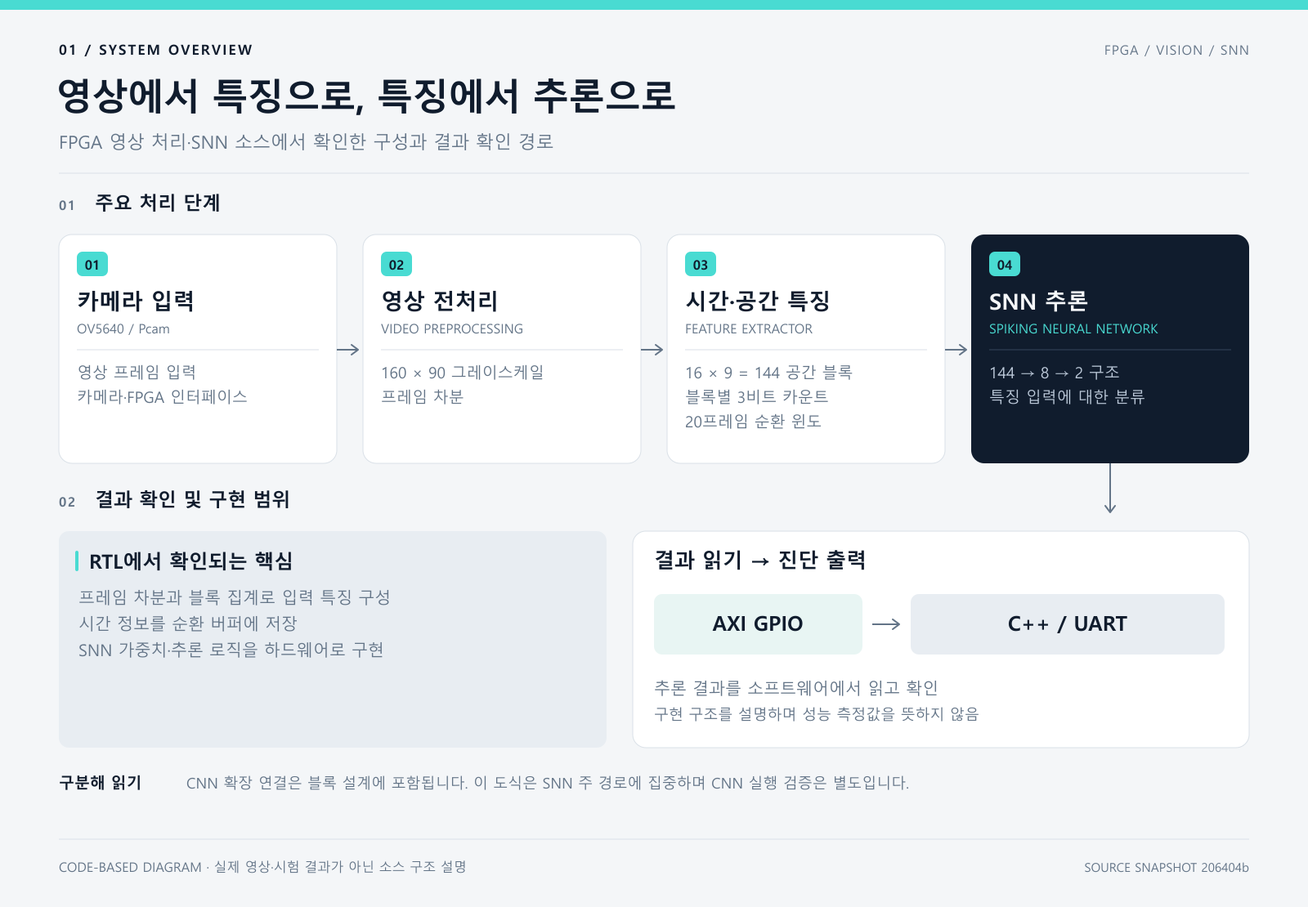
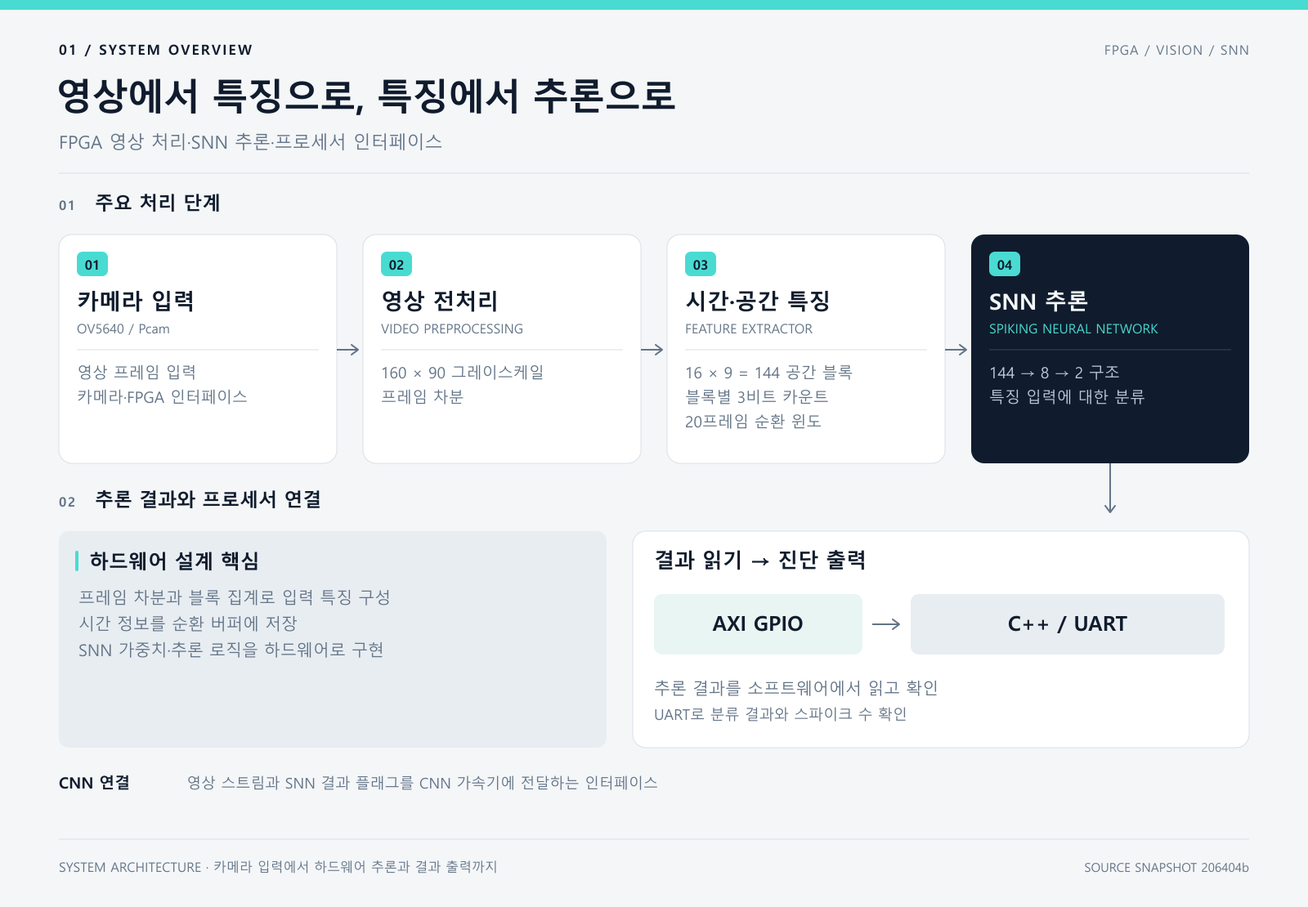
docs: focus portfolio copy and visuals on implementation and achievements

diff --git a/docs/results.md b/docs/results.md
@@ -1,75 +1,63 @@
 # 결과와 측정 조건
 
-[프로젝트 소개로 돌아가기](../README.md) · [실행 환경과 검증 범위](reproduction.md)
+[프로젝트 소개로 돌아가기](../README.md) · [개발 환경과 실행 안내](reproduction.md)
 
-프로젝트 수행 기록은 최종보고서·포스터의 결과와 개발 중 시험을 구분해 정리합니다. 아래 수치는 해당 기록에 보고된 결과이며, 이번 문서 제작에서 새로 측정한 값은 아닙니다. 공개 코드의 설정값, 상태별 실측 기록, 운용 가정에 따른 계산을 나누어 제시합니다.
+최종보고서·포스터에 정리한 모델 성능, FPGA 자원 사용률과 상태별 전류 비교 결과입니다.
 
-## 모델·자원 결과
+## 모델 성능과 FPGA 자원
 
-| 지표 | 수행 기록의 결과 | 확인 범위 |
-|---|---|---|
-| SNN 분류 정확도 | 98% | 데이터 분할 목록·클래스 구성·혼동행렬 원본은 추가 확인 필요 |
-| SNN 연산 지연 | 약 23,560사이클 · 약 236 µs | 20프레임 수집 대기까지 포함한 지연이 아님. 적용 클럭·최종 RTL 버전 확인 필요 |
-| CNN 검출 성능 | AP@0.5 89% | 평가셋·PR 곡선·반복 조건 원본은 추가 확인 필요 |
-| CNN 처리율 | 약 37 FPS | 카메라부터 서보까지 전체 경로를 포함했는지는 기록에 명확하지 않음 |
-| CNN 연산량 | 약 42M MAC/frame | 모델 연산량이며 전력 측정치가 아님 |
-| LUT | 27,802 / 52.26% | 최종 통합 설계로 보고된 수치 |
-| FF | 22,986 / 21.6% | 최종 통합 설계로 보고된 수치 |
-| BRAM | 90.5 / 64.64% | 최종 통합 설계로 보고된 수치 |
-| DSP48E1 | 7 / 3.18% | 최종 통합 설계로 보고된 수치 |
+| 지표 | 결과 |
+|---|---|
+| SNN 분류 정확도 | 98% |
+| SNN 연산 지연 | 약 23,560사이클 · 약 236 µs(100 MHz 환산) |
+| CNN 검출 성능 | AP@0.5 89% |
+| CNN 처리율 | 약 37 FPS |
+| CNN 연산량 | 약 42M MAC/frame |
+| LUT | 27,802개 / 52.26% |
+| FF | 22,986개 / 21.6% |
+| BRAM | 90.5개 / 64.64% |
+| DSP48E1 | 7개 / 3.18% |
 
-개발 요약에는 약 1,600개 데이터와 미탐 0건도 적혀 있습니다. 다만 1,600개가 전체 데이터인지 평가 데이터인지, 어떤 장면과 임계값에서 미탐을 집계했는지 확인되지 않아 대표 성과 수치로 사용하지 않았습니다. 이를 일반 환경에서 드론을 놓치지 않는다는 의미로 해석하지 않습니다.
-
-약 236 µs는 23,560사이클을 100 MHz로 환산한 값과 맞습니다. 공개 코드 주석의 영상·추론 클럭 설명과 측정 빌드가 같은지 확인되지 않으므로, 현재 스냅샷의 실측 지연으로 환산해 쓰지 않습니다. 또한 20프레임 입력을 모으는 시간과 SNN 연산 시간은 서로 다른 지연입니다.
+SNN은 20프레임의 특징을 모아 시간 패턴을 분류합니다. 위 연산 지연은 특징 수집 이후 SNN 추론 구간의 값입니다.
 
 ## 검출 화면과 시제품
 
 <p align="center"><img src="../assets/detection-comparison.jpg" alt="같은 영상 프레임에 겹쳐 표시한 소프트웨어와 INT8 하드웨어 검출 박스" width="420"></p>
 
-*출처: 프로젝트 수행 기록에 수록한 화면. 기록은 녹색을 소프트웨어, 빨간색을 INT8 하드웨어 검출로 설명합니다. 한 프레임의 비교 화면이며, AP 89%나 전체 데이터셋의 등가성을 단독으로 증명하지는 않습니다.*
+*동일 프레임의 검출 박스 비교: 소프트웨어는 녹색, INT8 하드웨어는 빨간색.*
 
-수행 기록에는 단일 보드 통합, 팬틸트 시제품과 약 55초의 시연 영상 제작이 남아 있습니다. 사진은 [프로젝트 소개](../README.md)에서 볼 수 있습니다. 추적 중심 오차, 정착 시간, 최대 추적 각속도의 정량 결과는 확인되지 않았습니다.
+단일 보드에 카메라·추론·팬틸트를 통합하고 약 55초의 시연 영상을 제작했습니다. 완성한 시제품은 [프로젝트 소개](../README.md)에서 볼 수 있습니다.
 
-## 상태별 전류 실측 기록
+## 상태별 입력 전류
 
-5 V 전원 경로에서 멀티미터로 전류를 비교했습니다. 카메라 입력과 HDMI 출력만 포함하는 설계를 기준으로 삼아, 공통 영상 경로의 소비와 추론을 추가했을 때의 증가분을 나눴습니다.
+5 V 전원 경로에서 멀티미터로 전류를 비교했습니다. 카메라 입력과 HDMI 출력을 기준 설계로 두고, 추론 기능을 추가했을 때의 전류 증가분을 측정했습니다.
 
-| 상태 | 기록된 입력 전류 | 기준 595 mA 대비 |
+| 상태 | 입력 전류 | 기준 595 mA 대비 |
 |---|---|---|
 | 카메라 → HDMI 기준 설계 | 595 mA | 0 mA |
 | CNN 상시 실행 | 616 mA | +21 mA |
-| SNN 감시 | 포스터 그래프 608 mA / 재측정 기록 607 mA | 각각 +13 mA / +12 mA |
+| SNN 감시 | 607 mA(후속 측정) | +12 mA |
 | CNN 추적 활성 | 625 mA | +30 mA |
 
-<p><img src="../assets/current-measurement.png" alt="프로젝트 수행 기록의 구성별 입력 전류 그래프: 기준 595, CNN 단독 616, SNN 감시 608, CNN 추적 625 mA" width="100%"></p>
+<p><img src="../assets/current-measurement.png" alt="상태별 입력 전류 그래프: 기준 595, CNN 단독 616, SNN 감시 608, CNN 추적 625 mA" width="100%"></p>
 
-*출처: 프로젝트 수행 기록에 수록한 전류 비교 그래프. 원본 그래프는 세로축을 생략해 차이를 확대하므로 수치와 함께 읽어야 합니다. 이 그림은 상태별 실측 표기이며 출현율별 장시간 실측 그래프가 아닙니다.*
+*상태별 입력 전류 비교. 포스터의 SNN 감시 측정값은 608 mA이며, 후속 측정값은 607 mA입니다. 측정 중 변동은 약 ±2 mA였습니다.*
 
-감시 상태의 **608 mA와 공식 증가분 +12 mA는 그대로 빼면 일치하지 않습니다.** 수행 기록에는 후속 측정 607 mA와 약 ±2 mA의 변동이 함께 남아 있습니다. 아래 42% 계산은 공식 설명에서 사용한 +12 mA를 따르며, 그래프의 608 mA를 임의로 바꾸지 않았습니다.
+## 조건부 추론의 평균 전류
 
-## 출현율을 가정한 평균 추론 전류 계산
-
-표적 출현율을 `d`라고 두고, 감시·추적 상태에 머무는 비율로 해석한 단순 모델입니다. 감시 시 +12 mA, 추적 시 +30 mA를 사용하면 기준 부하를 제외한 평균 증가분은 다음과 같습니다.
+상태별 측정값을 바탕으로 표적 출현율에 따른 평균 추론 전류를 계산했습니다. 출현율 `d`를 CNN 추적 활성 비율로 두고, 감시 상태 +12 mA와 추적 상태 +30 mA를 가중 평균합니다.
 
 ```text
 평균 추론 추가 전류 = (1 − d) × 12 + d × 30 = 12 + 18d [mA]
 CNN 상시 실행 대비 절감률 = (21 − 평균 추론 추가 전류) / 21
 ```
 
-| 가정한 출현율 | 평균 추론 추가 전류 | 추가 전류 절감률 | 기준 부하를 포함한 평균 전류 |
+| 출현율 시나리오 | 평균 추론 추가 전류 | 추론 추가 전류 절감률 | 기준 부하를 포함한 평균 전류 |
 |---|---|---|---|
 | 50% | 21.0 mA | 0% | 616.0 mA |
 | 10% | 13.8 mA | 약 34% | 608.8 mA |
 | 1% | 12.18 mA | 약 42% | 607.18 mA |
 
-**출현율 1%에서 42%는 추론 증가분의 절감률입니다.** 전체 입력 전류로 비교하면 `(616 − 607.18) / 616`, 약 **1.4%** 감소입니다. 전압이 같다는 전제에서 전력 비율도 같지만, 이 결과를 누적 에너지 실측이나 모든 운용 조건의 절감률로 확대하지 않습니다.
+**출현율 1% 시나리오에서 추론 추가 전류를 약 42% 줄이는 구조입니다.** 비교 기준은 카메라·HDMI의 공통 부하 595 mA를 제외한 추론 증가분입니다. 같은 시나리오의 보드 전체 평균 전류는 616 mA에서 607.18 mA로 약 1.4% 감소합니다.
 
-실제 추적 타임아웃과 오탐으로 CNN이 켜진 시간은 표적 출현 시간과 다를 수 있습니다. 따라서 위 표는 상태별 전류를 이용한 시나리오 계산이며, 실제 CNN 활성 비율을 기록한 장시간 반복 실험과 구분합니다. 더 큰 모델의 85% 절감 추정도 실측 성과에 포함하지 않았습니다.
-
-## 다시 측정할 때 남길 자료
-
-- 데이터셋 버전·동영상 단위 분할·클래스별 평가 개수와 원시 예측
-- 가중치, 임계값, RTL, bitstream, XSA와 소프트웨어의 일치 목록
-- 카메라 입력→검출→서보 명령까지의 지연과 프레임 누락
-- 실제 CNN 활성 비율, 전원 조건, 반복 시간과 전류 시계열
-- 추적 오차, 정착 시간과 여러 배경·거리 조건의 실패 사례
+표적이 드물수록 SNN 감시 상태에 머무는 시간이 길어지고, CNN 상시 실행 방식과의 평균 추론 비용 차이가 커집니다.

diff --git a/docs/development.md b/docs/development.md
@@ -2,7 +2,7 @@
 
 [프로젝트 소개로 돌아가기](../README.md) · [결과와 측정 조건](results.md)
 
-프로젝트 수행 기록과 개발 요약에 남은 사례를 정리했습니다. 공개 소스에서 확인한 현재 구조, 당시 수정·시험 기록, 최종 코드가 더 필요한 항목을 구분합니다. 제안만 남은 다중 분기 SNN, 실제 DVS 센서와 다중 표적 추적은 구현 성과에 포함하지 않았습니다.
+카메라 입력부터 모델 평가, RTL 수치 표현과 FPGA 메모리 배치까지, 통합 과정에서 발생한 문제를 계층별로 나누어 해결했습니다.
 
 ## 1. 검은 화면을 세 계층으로 분리
 
@@ -26,9 +26,7 @@
 
 **원인.** 20프레임 윈도우를 한 프레임씩 이동해 만든 샘플은 이웃끼리 19프레임을 공유합니다. 이 샘플을 무작위로 나누면 같은 영상의 거의 같은 장면이 학습과 평가에 동시에 들어갑니다. 카메라 흔들림이나 물체의 상하 위치에 의존하는 현상도 관찰했습니다.
 
-**대응.** 동영상 파일 단위로 학습·평가를 나누고 별도 영상의 결과를 확인했습니다. 사람과 드론이 붙어 있는 장면, 낮게 나는 드론, 배경·위치가 다른 장면을 점검하고 데이터를 보강했습니다. 중간 실험의 100%에 가까운 수치를 최종 성과로 사용하지 않았습니다.
-
-현재 공개 소스의 144차원·20프레임 입력 구조는 이 문제를 이해할 근거가 됩니다. 당시 학습 데이터 분할 목록과 평가 실행 결과는 공개 스냅샷과 별도로 보존·연결할 자료입니다.
+**대응.** 동영상 파일 단위로 학습·평가를 나누고 독립 영상으로 평가했습니다. 사람과 드론이 붙어 있는 장면, 낮게 나는 드론, 배경·위치가 다른 장면을 점검하고 데이터를 보강했습니다. 샘플 수뿐 아니라 영상 간 독립성과 실패 장면을 기준으로 평가 체계를 개선했습니다.
 
 ## 3. 정지 입력의 Fly 오판을 비트폭까지 추적
 
@@ -36,33 +34,29 @@
 
 **원인 분리.** 카메라를 분리하고 RTL에 all-zero 입력을 직접 넣어 같은 현상을 재현했습니다. 영상 노이즈에 앞서 신경망 내부의 수치 표현과 비교 조건을 살펴볼 수 있었습니다.
 
-**대응.** 수행 기록에는 임계값 171·146이 signed 8비트의 양수 범위를 넘어 음수로 해석된 문제가 남아 있습니다. 임계값 폭을 16비트로 넓히고, 두 임계값의 GPIO 전달 형식과 동률 판정을 명시했습니다. RTL 단독 입력, 실제 카메라 정지, 손 움직임을 순서대로 넣어 결과를 비교했습니다.
+**대응.** 임계값 171·146이 signed 8비트의 양수 범위를 넘어 음수로 해석되는 것을 확인했습니다. 임계값 폭을 16비트로 넓히고, 두 임계값의 GPIO 전달 형식과 동률 판정을 명시했습니다. RTL 단독 입력, 실제 카메라 정지, 손 움직임을 순서대로 넣어 결과를 비교했습니다.
 
 값의 범위, 부호, 전달 비트 배치는 모델과 하드웨어 사이의 인터페이스 사양으로 관리했습니다. 모델 값이 맞더라도 전달 형식이 다르면 결과가 달라질 수 있기 때문입니다.
 
 ## 4. CNN 자원 초과에서 메모리 배치를 확인
 
-**문제.** CNN 통합 중 activation 메모리가 BRAM이 아닌 LUTRAM으로 합성되면서 자원 요구량이 급증하고 배치에 실패했습니다. 수행 기록의 대상 메모리는 115,200 × 8비트입니다.
+**문제.** CNN 통합 중 115,200 × 8비트 activation 메모리가 LUTRAM으로 합성되면서 자원 요구량이 급증하고 배치에 실패했습니다.
 
 **분석.** 모델 규모를 바로 줄이기보다 최신 자원 보고서와 계층별 메모리 배치를 확인했습니다. 디버그 레지스터 추가분과 대용량 메모리의 배치 비용을 나누고, 오래된 합성 결과를 보고 있지 않은지도 확인했습니다.
 
-**기록된 해결.** 개발 요약은 불필요한 대규모 초기화 루프를 제거한 뒤 BRAM 추론과 배치가 정상화되었다고 설명합니다. 통합 수행 기록도 메모리 추론 문제 해소와 후속 결과를 기록하지만, 최종 수정 코드의 정확한 형태는 확정하지 않습니다. 따라서 **메모리 배치 문제를 찾아 수정한 경험**으로 소개하며, 모든 합성 변동의 원인이 하나의 루프였다고 일반화하지 않습니다.
+**대응.** 대규모 초기화 루프를 정리하고 메모리의 합성 형태를 수정해 BRAM 추론과 배치를 정상화했습니다. 모델 연산량과 메모리 배치 비용을 따로 분석하면서, 같은 알고리즘도 RTL 표현에 따라 자원 사용량이 크게 달라진다는 점을 반영했습니다.
 
-현재 공개 스냅샷과 최종 수정본의 일치를 확인하려면 당시 RTL·합성 보고서·bitstream을 같은 빌드로 묶어 비교해야 합니다.
-
-## 5. 시뮬레이션 성공과 보드 실행을 분리
+## 5. RAW 출력부터 보드 통합 경로를 추적
 
 CNN의 testbench에는 출력이 있어도 실제 보드에서 RAW가 0이거나 포화값으로 나오는 경우가 있었습니다. 입력 프레임, 가중치 로드, 상태 머신, 출력 주소, 최신 합성 반영 여부를 나누어 확인했습니다.
 
-수행 기록에는 과도한 초기화 반복문, 다른 개발 환경의 가중치 파일 경로, 이전 합성 결과 재사용이 남아 있습니다. 이들은 중간 가중치 내장 방식에서 발견한 문제이며, 하나의 확정 원인으로 묶지 않았습니다. 최종 자료가 설명하는 구조는 AXI-Lite 런타임 가중치 로드입니다.
+가중치 내장 방식을 개발하는 동안 초기화 반복문, 개발 환경별 파일 경로와 합성 결과 반영 상태를 점검했습니다. 최종 통합에서는 AXI-Lite 런타임 가중치 로드 구조를 사용했습니다.
 
-UART의 RAW 덤프와 상태 레지스터로 시작·진행·완료를 확인하고, 그 다음 영상 좌표 정렬을 별도 문제로 살폈습니다. 현재·이전 프레임의 `tuser/tlast`, VDMA 읽기 시작 시점과 차분 덤프를 함께 비교했습니다. 일부 행 오프셋이 관측 방식 때문인지 잔여 영상 문제인지는 기록만으로 확정하지 않았습니다.
+UART의 RAW 덤프와 상태 레지스터로 시작·진행·완료를 확인하고, 그 다음 영상 좌표 정렬을 살폈습니다. 현재·이전 프레임의 `tuser/tlast`, VDMA 읽기 시작 시점과 차분 덤프를 함께 비교하며 영상·가중치·제어 경계별로 원인을 좁혔습니다.
 
-## 검증 과정에서 남긴 기준
+## 개발에 적용한 검증 방식
 
 - 모델 평가는 동영상 단위 독립성을 확인하고, 평균 정확도와 실패 장면을 함께 살핍니다.
 - 기능 시뮬레이션과 타이밍 검증을 구분합니다. 파이프라인을 넣을 때 데이터·상태·완료 신호의 지연을 함께 맞춥니다.
 - 수정한 RTL, 생성한 bitstream, 내보낸 XSA, Vitis 플랫폼과 실행 파일의 버전을 맞춥니다.
 - 결과가 없을 때는 UART·레지스터·프레임 덤프로 어느 경계까지 데이터가 도착했는지 확인합니다.
-
-이 사례들은 당시 수행 기록에 근거한 설명입니다. 이번 포트폴리오 정리에서 원시 실험을 다시 실행하거나 최종 보드 동작을 재검증한 것은 아닙니다.

diff --git a/docs/reproduction.md b/docs/reproduction.md
@@ -1,61 +1,44 @@
-# 실행 환경과 검증 범위
+# 개발 환경과 실행 안내
 
 [프로젝트 소개로 돌아가기](../README.md)
 
-## 환경
+## 개발 환경
 
-- 저장소의 보드 설정: Zybo Z7-20 / Zynq-7000, 장치 `xc7z020clg400-1`
-- Vivado 블록 설계 기록: 2025.1
-- 프로세서 애플리케이션: Cortex-A9 / standalone / C++
-- 영상 입력 관련 코드: OV5640 / Pcam 5C, MIPI 수신 IP
-- 포함된 하드웨어 자료: Vivado 프로젝트, 블록 설계, RTL, 여러 XSA
-- 포함된 소프트웨어 자료: Vitis 컴포넌트 설정, 카메라·VDMA 코드, SNN 가중치 헤더
+| 구분 | 구성 |
+|---|---|
+| FPGA 보드 | Zybo Z7-20 / Zynq-7000 · `xc7z020clg400-1` |
+| 설계 도구 | Vivado 2025.1 · Vitis |
+| 프로세서 애플리케이션 | Cortex-A9 / standalone / C++ |
+| 영상 입력 | OV5640 / Pcam 5C · MIPI 수신 IP |
+| 하드웨어 자료 | Vivado 프로젝트, 블록 설계, RTL, XSA |
+| 소프트웨어 자료 | Vitis 컴포넌트, 카메라·VDMA 제어, SNN 가중치 헤더 |
 
-## 복원할 때 먼저 맞출 항목
+## 프로젝트 구성 순서
 
-1. 실제 사용한 Vivado·Vitis 버전, 보드와 카메라 모델을 확인합니다.
-2. 원본 `hw.xpr`의 IP 경로와 참조 RTL을 복원합니다.
-3. 사용할 XSA와 플랫폼을 선택하고 BSP 및 `xparameters.h`를 다시 생성합니다.
-4. 애플리케이션의 플랫폼 참조, VDMA 주소·인터럽트·메모리 영역을 해당 하드웨어와 맞춥니다.
-5. 카메라 출력 → 그레이스케일 저장 → 차분 영상 → 가중치 로드 → 분류 결과 순서로 관찰합니다.
+1. 원본 `hw.xpr`을 열고 IP 경로와 참조 RTL을 설정합니다.
+2. 사용할 하드웨어의 XSA로 Vitis 플랫폼을 구성하고 BSP와 `xparameters.h`를 생성합니다.
+3. 애플리케이션의 플랫폼 참조, VDMA 주소·인터럽트·메모리 영역을 해당 하드웨어에 맞춥니다.
+4. RTL·가중치·bitstream·XSA·Vitis 실행 파일을 같은 빌드로 묶어 관리합니다.
+5. 카메라 출력 → 그레이스케일 저장 → 차분 영상 → 가중치 로드 → 분류 결과 순서로 동작을 확인합니다.
 
-현재 `app_component/vitis-comp.json`의 플랫폼 이름은 `platform_snn_real_final`입니다. 저장소에는 `platform_0515_2`와 `platform_8`이 있어, 복원 시 이름과 하드웨어 매칭을 확인해야 합니다. 플랫폼 설정에는 원래 개발 PC의 절대 경로도 포함되어 있습니다. 이 이유로 단일 명령으로 빌드된다고 안내하지 않습니다.
+새 개발 환경에서는 `app_component/vitis-comp.json`의 플랫폼 이름과 경로를 사용할 플랫폼으로 지정합니다. 원본 저장소에는 `platform_0515_2`, `platform_8` 등의 플랫폼 자료가 함께 있습니다.
 
-## 관찰 도구
+## UART 관찰 도구
 
-C++ 코드에는 UART 명령으로 160 × 90 PGM 형식의 원본 영상과 차분 영상을 출력하는 기능이 있습니다.
+C++ 애플리케이션에서 160 × 90 PGM 형식의 원본·차분 영상과 SNN 결과를 출력할 수 있습니다.
 
-| 명령 | 코드상 기능 |
+| 명령 | 기능 |
 |---|---|
 | `y` | 그레이스케일 원본 프레임 덤프 |
 | `z` | 차분 프레임 덤프 |
 | `r` | SNN 결과 한 번 읽기 |
-| `s` | SNN 결과 연속 출력; 코드상 리셋으로 종료 |
+| `s` | SNN 결과 연속 출력, 리셋으로 종료 |
 
-UART 출력에는 메뉴와 진단 문자열도 있으므로, 저장 파일에서 영상 데이터 경계를 구분해야 합니다.
+영상 덤프를 저장할 때는 UART 메뉴·진단 문자열과 PGM 영상 데이터를 구분합니다. 분류 결과와 출력 뉴런의 스파이크 수를 함께 보면 영상 입력부터 추론 결과까지 단계별로 살펴볼 수 있습니다.
 
-## 현재 문서가 보여주는 범위
+## 코드와 문서
 
-이 포트폴리오는 공개 소스와 프로젝트 수행 기록·개발 요약을 함께 정리한 문서입니다. 수행 기록에는 6월의 단일 보드 통합·시연·계측 결과가 있으며, 소스 설명에 사용한 공개 스냅샷은 그보다 앞선 구현을 담고 있습니다. 이 문서 제작 과정에서 FPGA 보드 실행, RTL 시뮬레이션, 합성·타이밍 검증 또는 모델 정확도 평가를 새로 수행하지 않았습니다.
-
-| 근거 | 이 문서에서 설명하는 내용 | 남은 연결 자료 |
-|---|---|---|
-| 공개 코드 `206404b` | 영상·VDMA·특징 추출·SNN과 CNN 블록 연결 | 공개 소스와 최종 통합 빌드의 변경 이력 |
-| 6월까지의 수행 기록·개발 요약 | 런타임 CNN 가중치 로드, PS 후처리, 팬틸트, 시연·계측 과정 | 최종 RTL·가중치·bitstream·XSA·애플리케이션 묶음 |
-| 기록에 수록한 사진·검출 화면·전류 그래프 | 시제품 형태, 단일 프레임 검출 비교, 상태별 전류 | 원시 측정·평가 결과와 반복 조건 |
-
-- 카메라 모드의 60 fps 설정은 전체 추론 파이프라인의 실측 FPS가 아닙니다.
-- 임계값·클럭·버퍼 크기는 구현 설정입니다.
-- 테스트벤치 파일의 존재는 테스트 통과를 의미하지 않습니다.
-- 팬틸트 시제품과 통합 과정은 수행 기록에 있지만, 추적 오차·정착 시간·최대 추적 속도는 정량화되어 있지 않습니다.
-- CNN 런타임 가중치 로드와 후처리는 최종 기록에 있으며, 현재 공개 C++ 스냅샷만으로 그 전체 동작을 재현할 수는 없습니다.
-- 기록의 약 236 µs는 SNN 연산 지연이며, 20프레임 수집 대기와 구동부 응답을 포함한 전체 지연이 아닙니다.
-
-실기 사진·검출 비교 화면·전류 그래프를 수행 기록에서 가져와 캡션으로 출처와 범위를 표시했습니다. 새로 제작한 도해와 실제 기록 이미지는 구분했습니다. 수치와 계산 조건은 [결과와 측정 조건](results.md), 원인 분석과 검증 과정은 [문제 해결 과정](development.md)을 참고하세요.
-
-## 기준 소스
-
-전체 팀 코드: https://github.com/jounget5411-lab/capstone_drone  
-문서 기준 커밋: `206404b4667d665620e731083eb8de6d972c248c`  
-개발 과정·결과 기준: 프로젝트 수행 기록 및 개발 요약(2026년 6월 최종 통합·계측 포함)  
-문서 작성일: 2026-09-27
+- [전체 팀 코드](https://github.com/jounget5411-lab/capstone_drone)
+- 소스 안내 기준: `206404b4667d665620e731083eb8de6d972c248c`
+- 개발 과정·결과: 2026년 3~6월 프로젝트 수행 기록과 개발 요약
+- [설계 상세](architecture.md) · [문제 해결 과정](development.md) · [결과와 측정 조건](results.md)

diff --git a/docs/code-map.md b/docs/code-map.md
@@ -2,7 +2,7 @@
 
 [프로젝트 소개로 돌아가기](../README.md)
 
-아래 링크는 공개 스냅샷 `206404b`의 구현을 안내합니다. 6월 최종 통합까지의 경험은 [문제 해결 과정](development.md), 기록된 성과는 [결과와 측정 조건](results.md)에서 읽을 수 있습니다.
+아래 링크는 공개 코드 `206404b`의 구현을 안내합니다. 6월 최종 통합까지의 경험은 [문제 해결 과정](development.md), 주요 성과는 [결과와 측정 조건](results.md)에서 읽을 수 있습니다.
 
 | 질문 | 파일 | 읽을 부분 |
 |---|---|---|
@@ -15,4 +15,4 @@
 | 시스템 전체 연결은 어디에 있나요? | [pcam_base_720p.bd](https://github.com/jounget5411-lab/capstone_drone/blob/206404b4667d665620e731083eb8de6d972c248c/hw_new_0426_cnnintegration/hw_new_backup/hw_new/hw.srcs/sources_1/bd/pcam_base_720p/pcam_base_720p.bd) | 영상 분기, VDMA, SNN, CNN, AXI 제어 |
 | 소프트웨어가 어떤 플랫폼을 참조하나요? | [vitis-comp.json](https://github.com/jounget5411-lab/capstone_drone/blob/206404b4667d665620e731083eb8de6d972c248c/new_workspace/app_component/vitis-comp.json) | 플랫폼·프로세서·OS 설정 |
 
-외부 IP와 드라이버를 포함한 전체 소스는 원본 저장소에서 확인하세요. 이 포트폴리오에는 원본 소스나 제3자 모델을 복제하지 않았으며, 원본의 권리·라이선스 조건은 해당 프로젝트 자료를 따릅니다.
+외부 IP와 드라이버를 포함한 전체 소스는 [원본 저장소](https://github.com/jounget5411-lab/capstone_drone)에서 확인할 수 있습니다.

diff --git a/assets/README.md b/assets/README.md
@@ -1,13 +1,13 @@
 # Visual assets
 
 - `hero.svg` / `hero.png`: 프로젝트 소개용 개념 이미지
-- `architecture.svg` / `architecture.png`: 코드에서 확인한 처리 구조
-- `prototype.jpg`: 프로젝트 수행 기록에 수록한 실제 팬틸트 시제품 사진
-- `detection-comparison.jpg`: 수행 기록의 소프트웨어·INT8 하드웨어 검출 박스 비교 화면
-- `current-measurement.png`: 수행 기록의 상태별 입력 전류 비교 그래프
+- `architecture.svg` / `architecture.png`: 영상 처리·SNN 추론 구조
+- `prototype.jpg`: 팬틸트 시제품 사진
+- `detection-comparison.jpg`: 소프트웨어·INT8 하드웨어 검출 박스 비교 화면
+- `current-measurement.png`: 상태별 입력 전류 비교 그래프
 
 `hero`와 `architecture`의 도형·레이아웃은 이 포트폴리오를 위해 제작했습니다. 경로 모양, 격자 활성 패턴, 노드 배치는 설명용입니다.
 
-`prototype`, `detection-comparison`, `current-measurement`는 프로젝트 수행 기록에서 가져온 원본 이미지입니다. 이미지 내용은 수정하지 않았으며, 각 이미지의 사용 위치에 무엇을 보여 주는지와 검증 범위를 표시했습니다. 기록 원문에 포함된 개인정보와 비공개 문서 링크는 복제하지 않았습니다.
+`prototype`, `detection-comparison`, `current-measurement`는 프로젝트 수행 기록의 원본 이미지입니다.
 
 SVG는 수정 가능한 원본이고 PNG는 GitHub 표시 호환성을 위한 이미지입니다. 폰트는 Malgun Gothic / Segoe UI / Arial 계열을 사용합니다.
